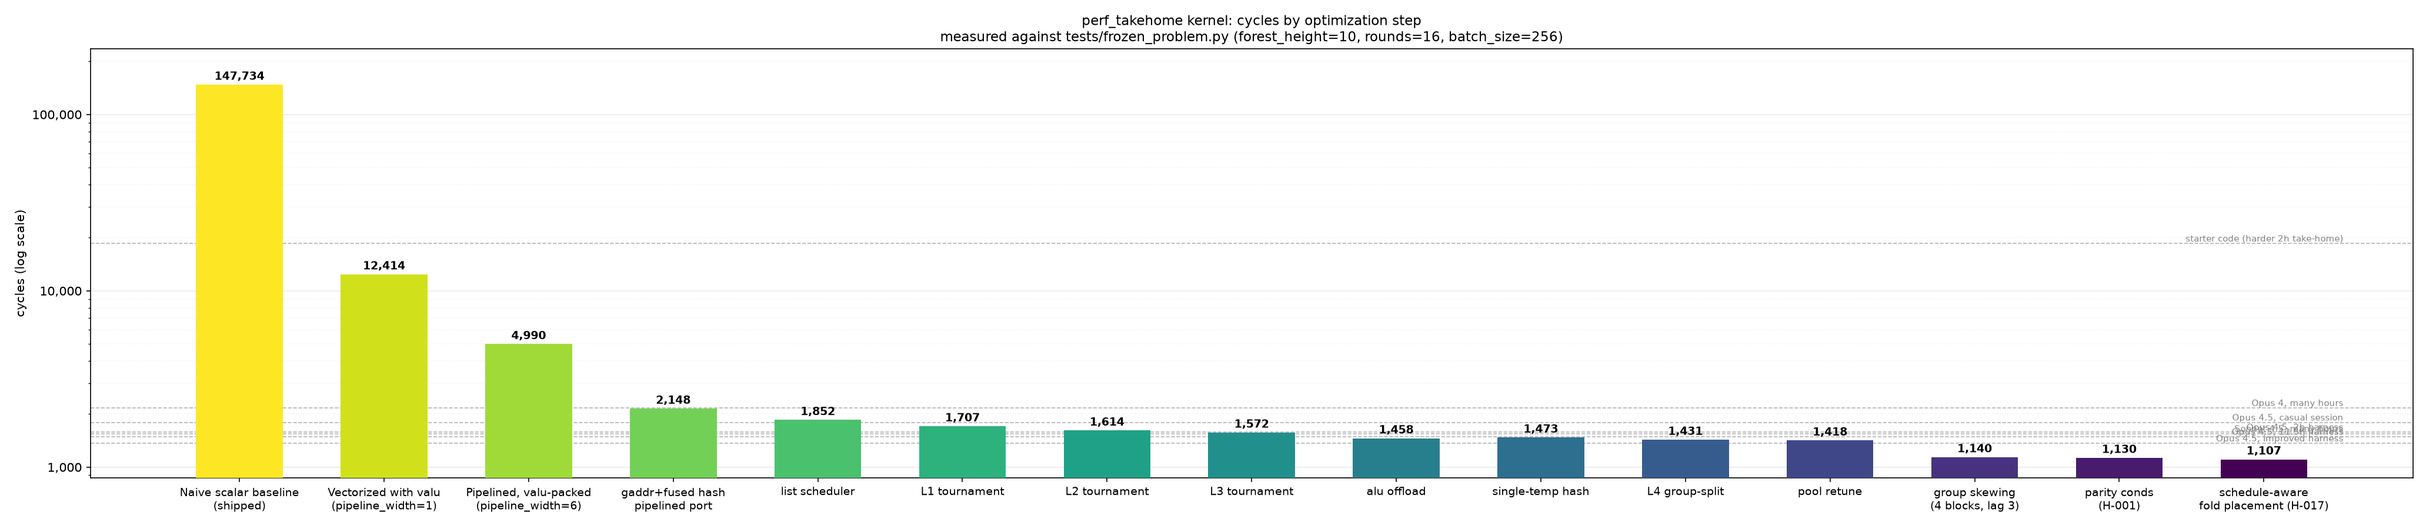
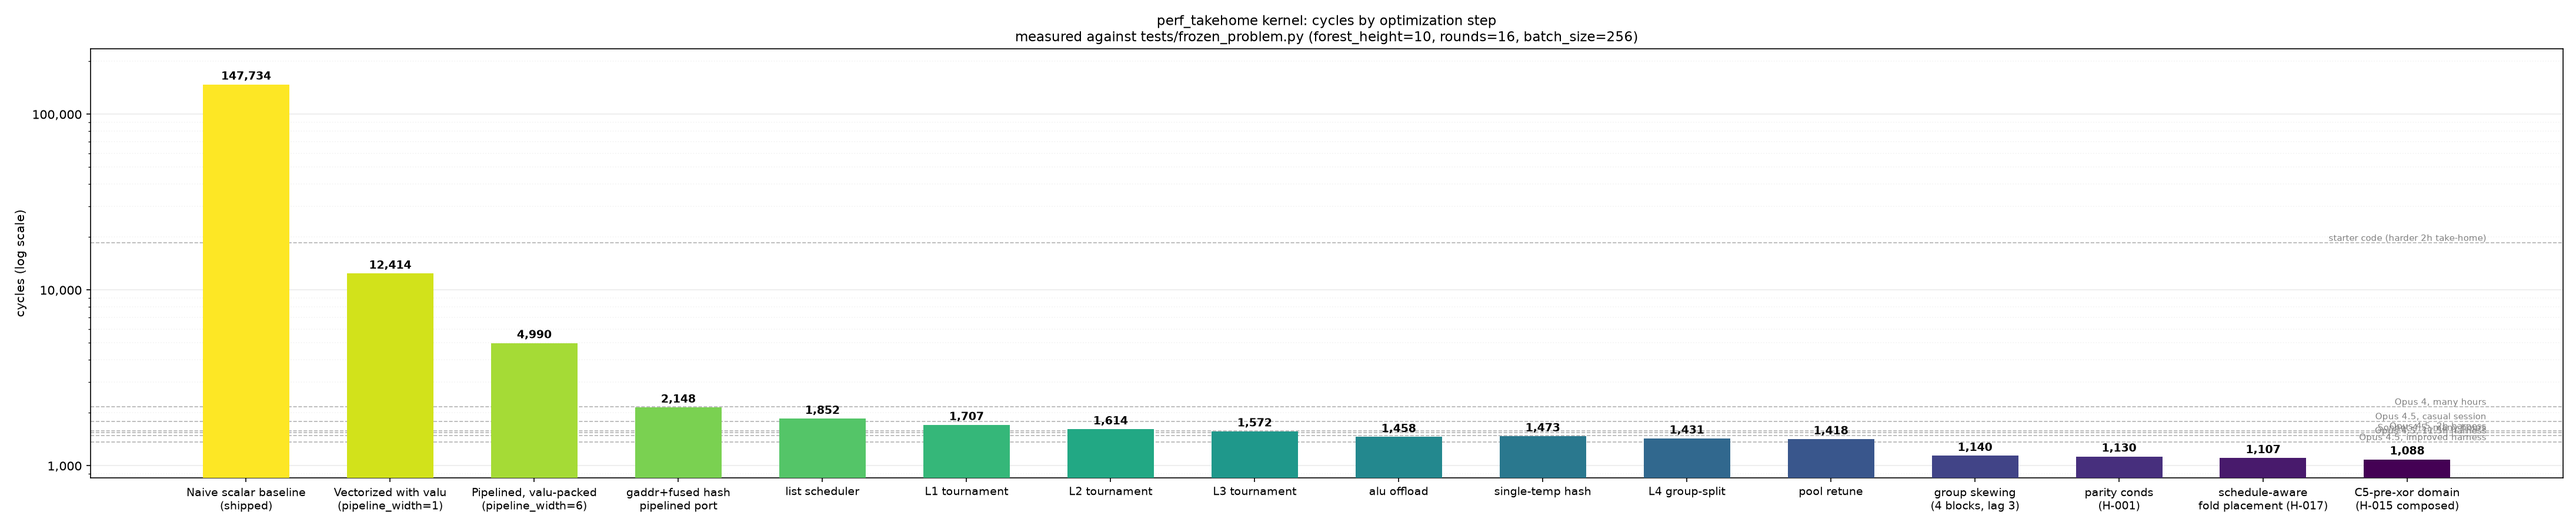
Iter 2 CLOSED: H-015 c5_prexor accepted composed, mainline 1107 -> 1088
C5-pre-xor value domain: tree/table sources primed with C5 so 9 of 16
rounds drop the hash's ^C5 (parity closed via table reversal, zero ops).
Composition with vsel_auto needed an arm-order fix (reversed tables swap
the vselect arms) and a joint retune: vsel_auto=(1,2), l4_gmin=(15,29),
pools (17,4). Grader 9/9 at 1088; recorded.

Claude-Session: https://claude.ai/code/session_01FPDQQCWYWR2ENky8rcMJZn

diff --git a/perf_takehome.py b/perf_takehome.py
@@ -223,8 +223,8 @@ class KernelBuilder:
             self.build_kernel_scheduled(
                 batch_size, rounds, forest_height,
                 tournament_levels=(1, 2, 3), alu_offload=True,
-                parity_conds=True, vsel_auto=(1, 2, 3),
-                pool_sizes=(16, 3), l4_gmin=(20, 29),
+                parity_conds=True, c5_prexor=True, vsel_auto=(1, 2),
+                pool_sizes=(17, 4), l4_gmin=(15, 29),
             )
         else:
             self.build_kernel_pipelined(
@@ -729,10 +729,11 @@ class KernelBuilder:
                     s0 = lv + (base + 2 * kk - 1)
                     s1 = s0 + 1
                     if L in vf_levels:
-                        # vselect first-fold (H-017): keep the odd VALUE
-                        # as the select arm; no subtract, no diff word.
-                        evens.append(bvec(s0))
-                        diffs.append(bvec(s1))
+                        # vselect first-fold (H-017): keep the non-base
+                        # VALUE as the select arm; no subtract, no diff
+                        # word. Arms swap under c5_prexor (inverted bit).
+                        evens.append(bvec(s1 if c5_prexor else s0))
+                        diffs.append(bvec(s0 if c5_prexor else s1))
                         continue
                     d = self.alloc_scratch()
                     if c5_prexor:
@@ -743,9 +744,12 @@ class KernelBuilder:
                         evens.append(bvec(s0))
                     diffs.append(bvec(d))
                     if L in va_levels:
-                        # vsel_auto (H-017): odd VALUE kept alongside the
-                        # diff so the fold can go to either engine.
-                        odd_of[diffs[-1]] = bvec(s1)
+                        # vsel_auto (H-017): the non-base VALUE kept
+                        # alongside the diff so the fold can go to either
+                        # engine. c5_prexor bases on the odd word, so the
+                        # select arm is the EVEN word there (arms swap with
+                        # the inverted condition).
+                        odd_of[diffs[-1]] = bvec(s0 if c5_prexor else s1)
                 lvl[L] = (evens, diffs)
         if l4_any:
             # Level maxT+1 candidates, indexed by the level-maxT position t:
@@ -759,9 +763,10 @@ class KernelBuilder:
                 s0 = lv + (base + 2 * tt - 1)
                 s1 = s0 + 1
                 if 4 in vf_levels:
-                    # vselect W-combine (H-017): odd VALUE, not the diff.
-                    E_vecs.append(bvec(s0))
-                    D_vecs.append(bvec(s1))
+                    # vselect W-combine (H-017): non-base VALUE, not the
+                    # diff; arms swap under c5_prexor (inverted bit).
+                    E_vecs.append(bvec(s1 if c5_prexor else s0))
+                    D_vecs.append(bvec(s0 if c5_prexor else s1))
                     continue
                 d = self.alloc_scratch()
                 if c5_prexor:

diff --git a/tools/run_variant.py b/tools/run_variant.py
@@ -32,11 +32,12 @@ sys.path.insert(0, os.path.join(REPO_ROOT, "tests"))
 BASE_KWARGS = {
     "tournament_levels": (1, 2, 3),
     "alu_offload": True,
-    "l4_gmin": (20, 29),
-    "pool_sizes": (16, 3),
+    "l4_gmin": (15, 29),
+    "pool_sizes": (17, 4),
     "skew": (4, 3),
     "parity_conds": True,  # H-001 accepted iter 1 (1140 -> 1130)
-    "vsel_auto": (1, 2, 3),  # H-017 accepted iter 2 (1130 -> 1107)
+    "vsel_auto": (1, 2),  # H-017 accepted iter 2; shrunk to (1,2) under c5_prexor
+    "c5_prexor": True,  # H-015 accepted iter 2 (composed retune -> 1088)
     "debug_compares": False,  # speed; grader ignores debug slots anyway
 }
 SHAPE = {"forest_height": 10, "batch_size": 256, "rounds": 16}

diff --git a/research/backlog.md b/research/backlog.md
@@ -163,7 +163,7 @@ strain STATE.md and the driver promotes them here.
   is slot-contention-bound (~33 cyc avg backlog). See G-11.
 - log: 2026-07-23 promoted; iter 2 measured and rejected.
 
-### H-015 [strain: op-reduction] [status: open] [PRIORITY: mainline candidate]
+### H-015 [strain: op-reduction] [status: accepted]
 - statement: C5-pre-xor value domain (H-003's P-1): pre-xor all 2047 tree
   values with C5 once (~256 vload+vxor+vstore hidden in the gather-free early
   rounds on the 1.4%-busy store engine; tournament E/D tables derived from
@@ -173,8 +173,15 @@ strain STATE.md and the driver promotes them here.
   Last round emits true val (+32 vxors).
 - predicted: -4096 lane-ops gross ≈ -68 cyc; net -45..-60 cyc -> ~1080-1095.
 - cost: M. depends: none. Touches preload + tournament constants + store path.
-- result:
-- log: 2026-07-23 promoted from op-reduction P-1; queued iter 2.
+- result: ACCEPTED iter 2, composed at 1088 (-19 vs 1107). Agent's design
+  beat the sketch: NO whole-tree preprocessing (load-floor arithmetic: +254
+  vloads -> >=1115 hard floor; only already-loaded sources primed, L4 tree
+  words rewritten in mem from primed scratch), parity closed at ZERO ops via
+  table REVERSAL. 9/16 rounds elide ^C5 (288 vec xors). Driver fixed a
+  vsel_auto arm-order interaction (swapped select arms under the reversed
+  tables) and re-tuned composed: va shrinks to (1,2), l4_gmin drifts to
+  (15,29) (freed valu funds more L4 service), pools back to (17,4).
+- log: 2026-07-23 promoted; iter 2 ACCEPTED composed, dispatch flipped.
 
 ### H-016 [strain: op-reduction] [status: open]
 - statement: Extend fusion_search with meet-in-the-middle (forward-2

diff --git a/research/RESEARCH.md b/research/RESEARCH.md
@@ -7,7 +7,7 @@
 
 | cycles | commit | config |
 |---|---|---|
-| 1107 | (iter-2) | `tournament_levels=(1,2,3), alu_offload=True, parity_conds=True, vsel_auto=(1,2,3), pool_sizes=(16,3), l4_gmin=(20,29)` |
+| 1088 | (iter-2 close) | `tournament_levels=(1,2,3), alu_offload=True, parity_conds=True, c5_prexor=True, vsel_auto=(1,2), pool_sizes=(17,4), l4_gmin=(15,29)` |
 
 ## Floors (calibrated 2026-07-23, see tools/diagnose_kernel.py)
 
@@ -43,5 +43,6 @@ Global: 6 dry iterations -> one cross-pollination iteration. Status report to us
 - 2026-07-23: loop initialized at 1140 (commit b68a302). Target 1000.
 - 2026-07-23: iter 1 -> 1130 (H-001 parity_conds). First loop accept.
 - 2026-07-23: iter 2 -> 1107 (H-017 vsel_auto). Crossed 1111 (the old op-mix floor).
+- 2026-07-23: iter 2 close -> 1088 (H-015 c5_prexor composed). 88 to target.
 
-- iter 2 (in flight) | H-014 REJECTED (0 nv-bound gathers) -> G-11; H-017 vsel_auto ACCEPTED 1107 (-23), hard flip -> G-12, dispatch flipped; H-015 still running; re-sweep negative | best 1107
+- iter 2 CLOSED | H-014 REJECTED (0 nv-bound gathers) -> G-11; H-017 vsel_auto ACCEPTED (-23) -> 1107, hard flip -> G-12; H-015 c5_prexor ACCEPTED composed (-19) -> 1088 (driver fixed vsel_auto arm-order interaction + composed retune: va=(1,2), gmin=(15,29)); re-sweep negative | best 1088
